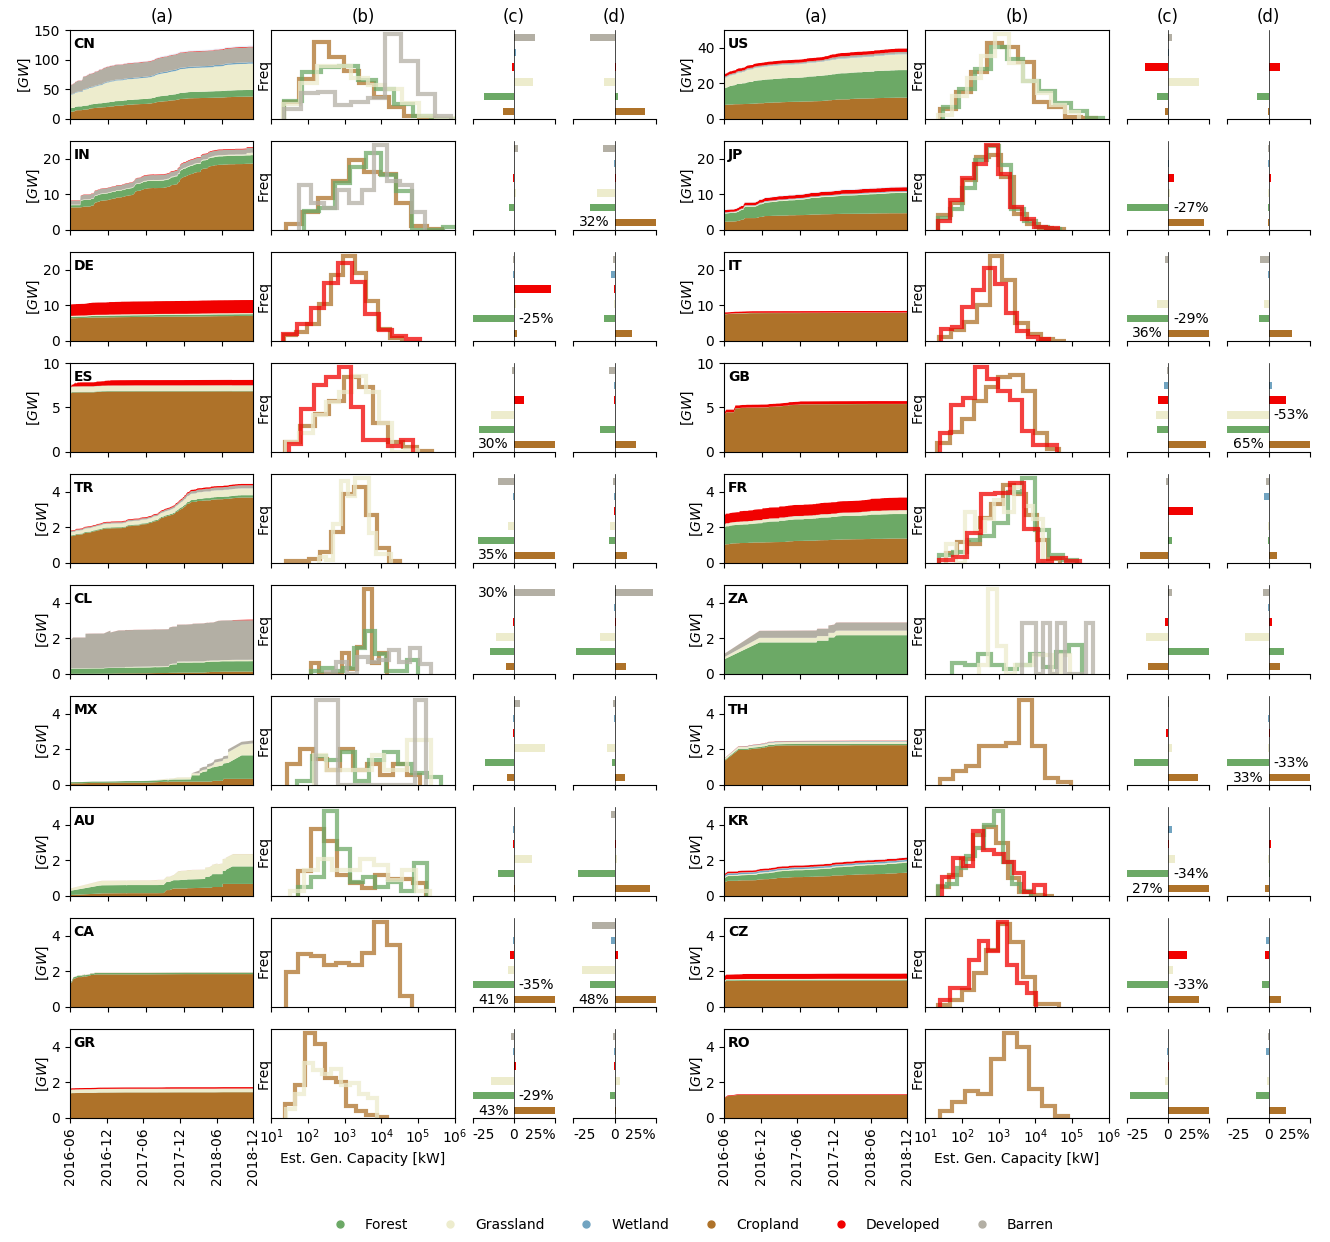
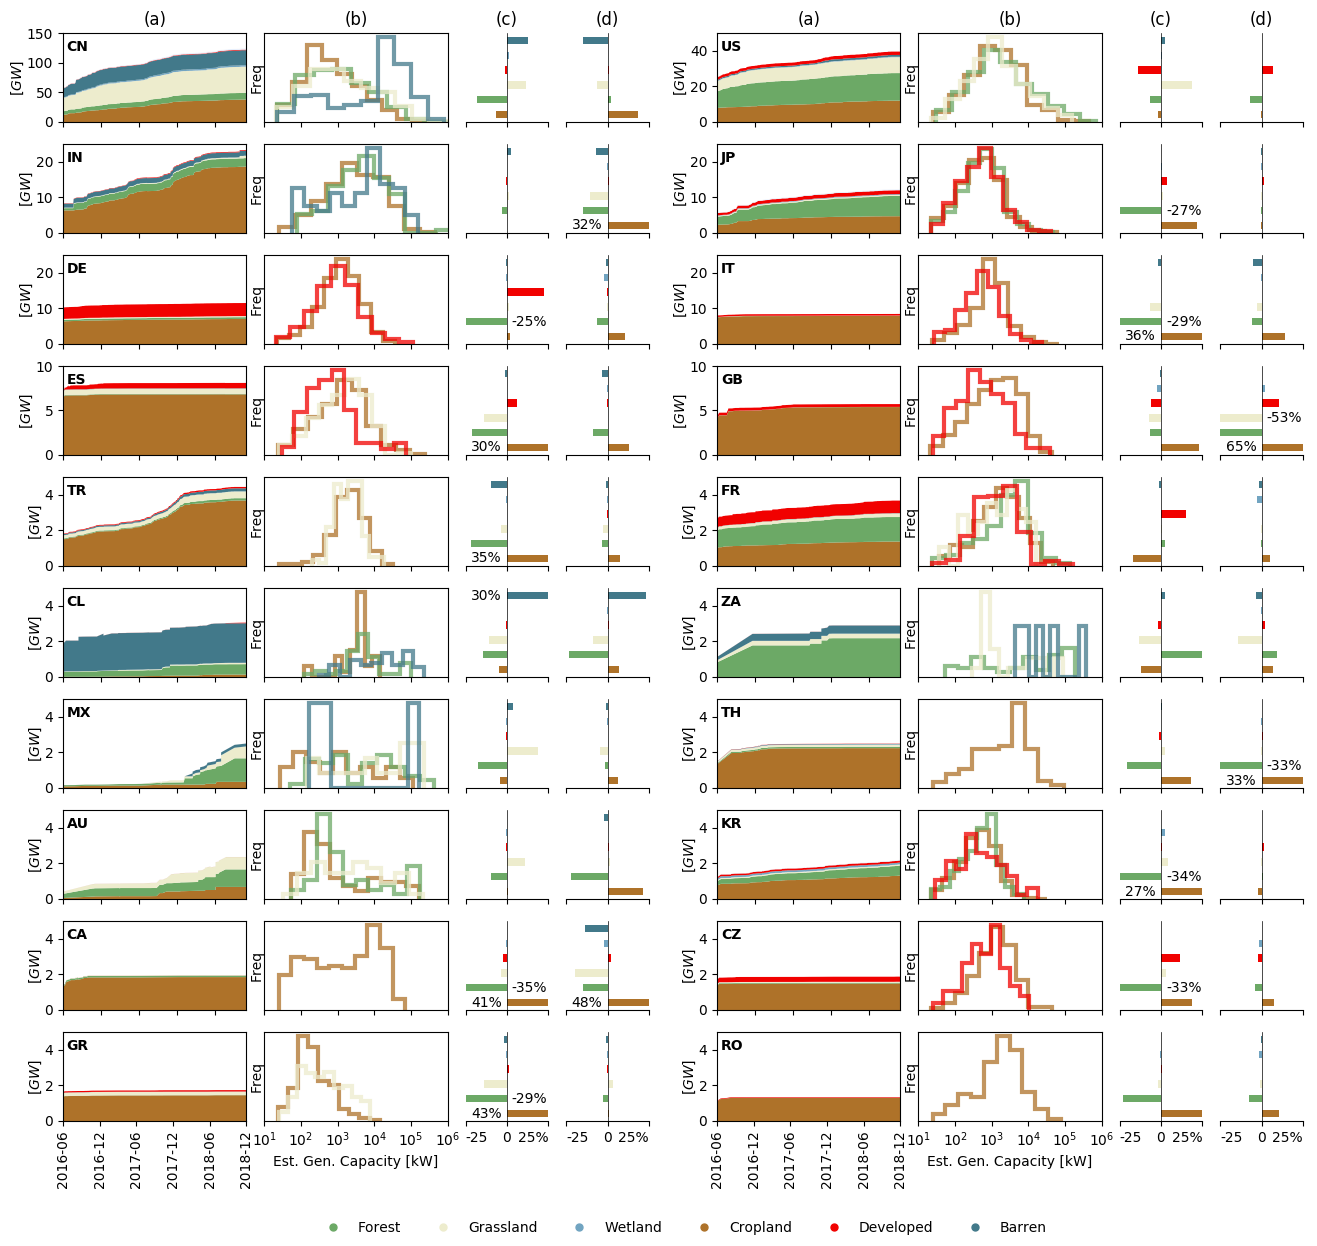
update figures

diff --git a/makefigs/fig-3_fig-A10_maplandcover.py b/makefigs/fig-3_fig-A10_maplandcover.py
@@ -38,7 +38,7 @@ logger = logging.getLogger(__name__)
         }
 
         '#ed8540', '#2f9149','#b6eb7f','#d000ff','cyan','b'  #crop, forest, grass, dev, wet, barren
-        '#ae7229', '#6ca966', '#edeccd','#f10100','#71a4c1','#b3afa4'  # new color scheme
+        '#ae7229', '#6ca966', '#edeccd','#f10100','#71a4c1','#b3afa4'  # new color scheme -> replace barren: 42798a
 """
 
 
@@ -54,7 +54,7 @@ class Figure:
             'wetlands':'#71a4c1',
             'cropland':'#ae7229',
             'developed':'#f10100',
-            'barren':'#b3afa4',
+            'barren':'#42798a',
             'other':'#e7effc'
         }
 
@@ -64,7 +64,7 @@ class Figure:
             'wetlands':'#71a4c1',
             'cropland':'#ae7229',
             'human':'#f10100',
-            'barren':'#b3afa4',
+            'barren':'#42798a',
             'other':'#e7effc',
             np.nan:'#e7effc'
         }
@@ -207,7 +207,7 @@ class Figure:
 
         draw_arr[mask]=np.nan
 
-        cmap = colors.ListedColormap(['#ae7229', '#6ca966', '#edeccd','#f10100','#71a4c1','#b3afa4']) # cropland, forest, grassland, developed, wetlands, barren/other
+        cmap = colors.ListedColormap(['#ae7229', '#6ca966', '#edeccd','#f10100','#71a4c1','#42798a']) # cropland, forest, grassland, developed, wetlands, barren/other
         bounds=[0,1,2,3,4,5]
         norm = colors.BoundaryNorm(bounds, cmap.N)
 
@@ -311,7 +311,7 @@ class Figure:
         print ('diff pv')
         print (diff)
 
-        diff.plot.barh(ax=axs['local_skew'], color=['#ae7229', '#6ca966', '#edeccd','#f10100','#71a4c1','#b3afa4'])
+        diff.plot.barh(ax=axs['local_skew'], color=['#ae7229', '#6ca966', '#edeccd','#f10100','#71a4c1','#42798a'])
         axs['local_skew'].axvline(0, color='k', lw=0.5)
         axs['local_skew'].spines['right'].set_visible(False)
         axs['local_skew'].spines['top'].set_visible(False)
@@ -329,7 +329,7 @@ class Figure:
         print ('diff pix')
         print (diff)
 
-        diff.plot.barh(ax=axs['global_skew'], color=['#ae7229', '#6ca966', '#edeccd','#f10100','#71a4c1','#b3afa4'])
+        diff.plot.barh(ax=axs['global_skew'], color=['#ae7229', '#6ca966', '#edeccd','#f10100','#71a4c1','#42798a'])
         axs['global_skew'].axvline(0, color='k', lw=0.5)
         axs['global_skew'].spines['right'].set_visible(False)
         axs['global_skew'].spines['top'].set_visible(False)
@@ -484,7 +484,7 @@ class Figure:
 
             print (country, diff.max(), diff.min())
 
-            diff.plot.barh(ax=axs[country]['local_skew'], color=['#ae7229', '#6ca966', '#edeccd','#f10100','#71a4c1','#b3afa4'])
+            diff.plot.barh(ax=axs[country]['local_skew'], color=['#ae7229', '#6ca966', '#edeccd','#f10100','#71a4c1','#42798a'])
             axs[country]['local_skew'].axvline(0, color='k', lw=0.5)
             axs[country]['local_skew'].spines['right'].set_visible(False)
             axs[country]['local_skew'].spines['top'].set_visible(False)
@@ -509,7 +509,7 @@ class Figure:
 
             print (country, diff.max(), diff.min())
 
-            diff.plot.barh(ax=axs[country]['country_skew'], color=['#ae7229', '#6ca966', '#edeccd','#f10100','#71a4c1','#b3afa4'])
+            diff.plot.barh(ax=axs[country]['country_skew'], color=['#ae7229', '#6ca966', '#edeccd','#f10100','#71a4c1','#42798a'])
             axs[country]['country_skew'].axvline(0, color='k', lw=0.5)
             axs[country]['country_skew'].spines['right'].set_visible(False)
             axs[country]['country_skew'].spines['top'].set_visible(False)
@@ -592,5 +592,5 @@ class Figure:
 if __name__=="__main__":
     generator=Figure(make_arr=False)
     #generator.make_arr()
-    #generator.make_global()
-    generator.make_regional()
+    generator.make_global()
+    #generator.make_regional()
